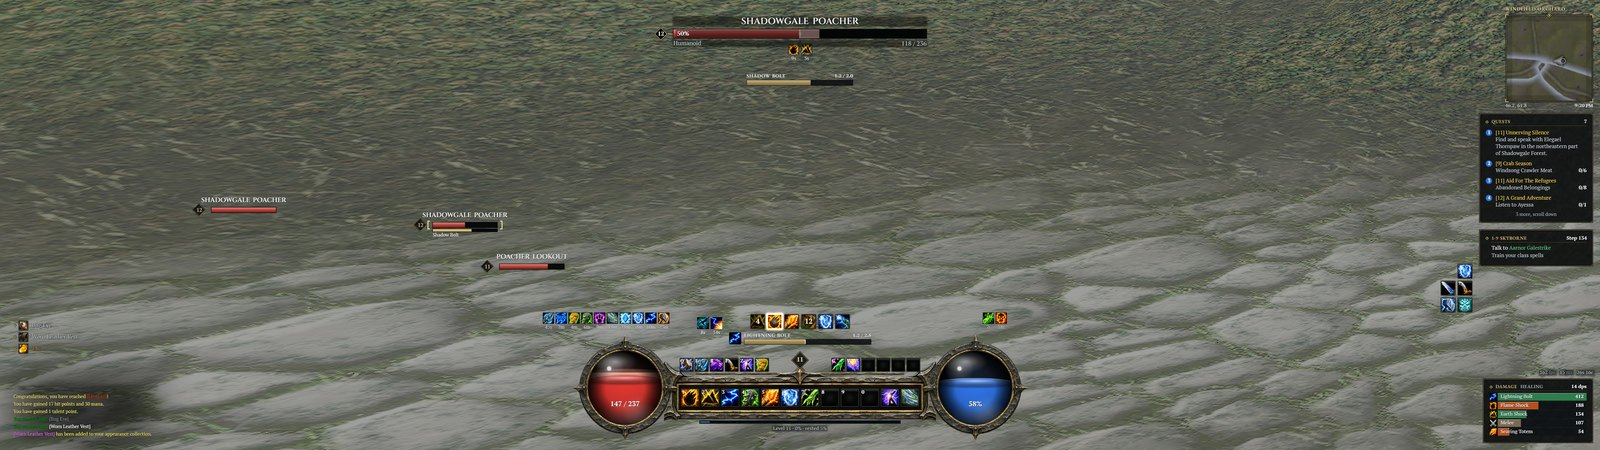
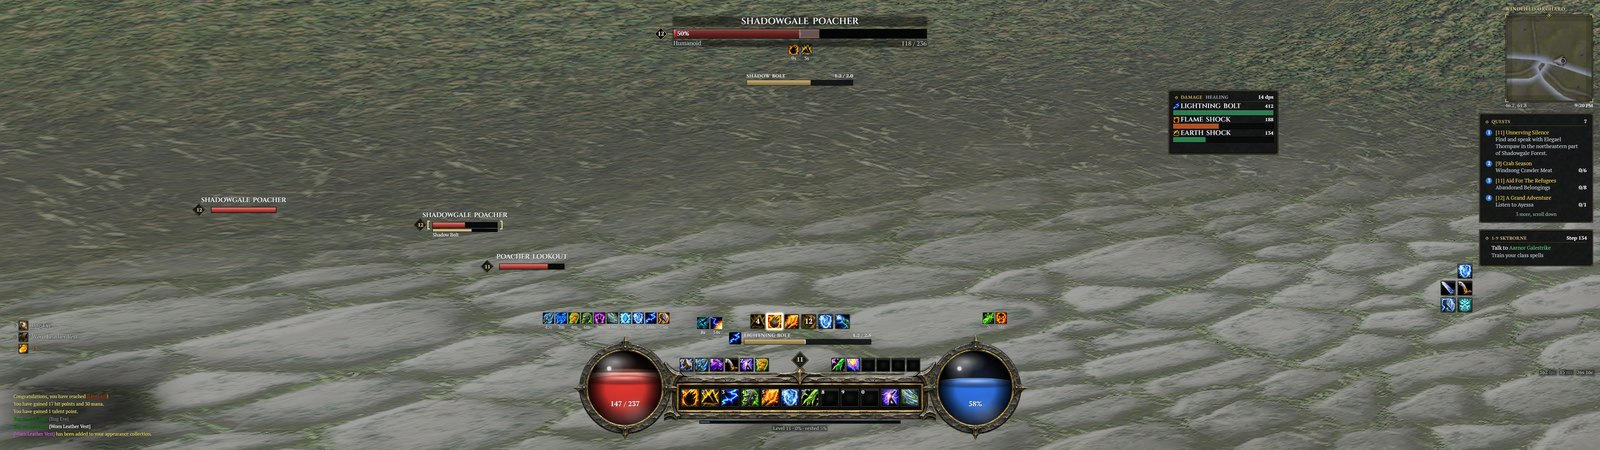
docs(meters): publish role choices and matching card renders

Changed region(s): [[0.9062, 0.84, 1.0, 0.9956], [0.7188, 0.1867, 0.8125, 0.3422]]

diff --git a/Tools/render/readme.py b/Tools/render/readme.py
@@ -65,6 +65,7 @@ for _arrangement in ("centred", "spread"):
     RENDERS["healer_" + _arrangement] = ("hud_reference", 1440 / 1080, dict(
         ULTRAWIDE, **dict(style_env("Frames"), RENDER_LAYOUT="Healer", RENDER_ARRANGEMENT=_arrangement)), "--strict")
 RENDERS["meter_party"] = ("hud_reference", 2.0, dict(HD, **dict(style_env("Frames"), RENDER_METER_GROUP="party")), "--strict")
+RENDERS["meter_both_2x"] = ("hud_reference", 2.0, dict(HD, **dict(style_env("Frames"), RENDER_METER_GROUP="party", RENDER_METER_CHOICE="both")), "--strict")
 RENDERS["plates"] = ("nameplate_bible", 2.0, {"RENDER_COMBAT": "1"}, "--strict")
 
 GALLERIES = ("gallery_setup", "gallery_groupframes", "gallery_skins_character")
@@ -79,8 +80,9 @@ IMAGES = [
     ("crop_orbs", "render:orbs_1080_2x", "2120x525+860+1615", 1000),
     ("crop_unitframes", "render:frames_1080_2x", "1480x560+1260+1290", 900),
     ("crop_nameplates", "render:plates", "1340x780+400+300", 800),
-    ("crop_meter", "render:meter_party", "540x300+3290+1820", 540),
-    ("crop_rail", "render:frames_1080_2x", "1100x1040+2720+20", 660),
+    ("crop_meter", "render:meter_party", "560x360+3010+840", 540),
+    ("crop_meters_both", "render:meter_both_2x", "1080x360+2490+840", 1120),
+    ("crop_rail", "render:frames_1080_2x", "1100x820+2720+20", 660),
     ("ultrawide_centred", "render:healer_centred", None, 1600),
     ("ultrawide_spread", "render:healer_spread", None, 1600),
     ("frame_setup", "frame:setup_layouts", None, 720),

diff --git a/Tools/media/marketing.py b/Tools/media/marketing.py
@@ -86,6 +86,7 @@ SHOWCASES = [
     ("show_frame_raid.jpg", "frame_raid.jpg"),
     ("show_crop_nameplates.jpg", "crop_nameplates.jpg"),
     ("show_crop_meter.jpg", "crop_meter.jpg"),
+    ("show_crop_meters_both.jpg", "crop_meters_both.jpg"),
     ("show_crop_rail.jpg", "crop_rail.jpg"),
     ("show_frame_skins.jpg", "frame_skins.jpg"),
 ]

diff --git a/docs/store/wago.md b/docs/store/wago.md
@@ -163,7 +163,7 @@ Tank adds a threat card in the combat cluster. Healer gives party and raid frame
 
 *KstyleUI test render over an in-game screenshot: the raid frames. Icons in this picture are the optional AI-made icon pack, not art shipped in the addon.*
 
-`/kstyle` opens one settings window with a page per module, a search across every setting and a live preview. `/kb` or `/kstyle kb` binds your action buttons: hover a button, press a key, then save. `/kstyle layout` moves, resizes or scales any element. Profiles copy between characters, and export and import as one string.
+`/kstyle` opens one settings window with a page per module, a search across every setting and a live preview. `/kb` or `/kstyle kb` binds your action buttons: hover a button, press a key, then save. `/kstyle layout` moves, resizes or scales any element. Keep a profile per specialization, switching automatically after combat. Profiles copy between characters, and export and import as one string.
 
 ![KstyleUI section: The rest of your UI - nameplates, meter, bags, tooltips and window skins](https://raw.githubusercontent.com/korallis/KstyleUI/main/docs/media/marketing/header-rest-of-your-ui.jpg)
 
@@ -181,7 +181,13 @@ Plain flat bars under tracked capital names, with your own debuffs on top. Your 
 
 *KstyleUI test render over an in-game screenshot: the damage meter in a party of five. Icons in this picture are the optional AI-made icon pack, not art shipped in the addon.*
 
-One card, a class-coloured bar per player. Switch between this fight, the last fight and the whole session; point at a row for that player's spell split. The threat card beside it follows the same design.
+The meter follows your role: threat when you tank, damage otherwise. As DPS you can show Damage, Threat or Both in **Options, Meters, Meter while dealing damage**; Both places matching cards side by side, and Damage stays the default.
+
+![KstyleUI test render over an in-game screenshot of the Both meter choice: separate, equally wide threat and damage cards side by side](https://raw.githubusercontent.com/korallis/KstyleUI/main/docs/media/marketing/show_crop_meters_both.jpg)
+
+*KstyleUI test render over an in-game screenshot: Both shows threat next to damage. Icons in this picture are the optional AI-made icon pack, not art shipped in the addon.*
+
+One class-coloured bar per player. Switch between this fight, the last fight and the whole session; point at a damage row for that player's spell split.
 
 ### Quests, guide and map on the right
 
@@ -292,8 +298,8 @@ Upload in this order. The gallery description is the caption.
 | `gallery/05-ultrawide-spread.jpg` | 1600×450 | Ultrawide, Spread | KstyleUI test render over an in-game screenshot of the Healer layout on a 5120 by 1440 screen, in the Spread arrangement. The side columns sit at the edges. Icons in this picture are the optional AI-made icon pack, not art shipped in the addon. |
 | `gallery/06-setup.jpg` | 720×523 | First-run setup | KstyleUI test render over an in-game screenshot of the first-run setup on its layout step: DPS, Tank and Healer, with a preview under the pointer. |
 | `gallery/07-nameplates.jpg` | 800×466 | Nameplates | KstyleUI test render over an in-game screenshot of the nameplates in combat: a targeted beast, an elite, a rare, a world boss and a friendly player. Icons in this picture are the optional AI-made icon pack, not art shipped in the addon. |
-| `gallery/08-meter.jpg` | 540×300 | Damage meter | KstyleUI test render over an in-game screenshot of the damage meter in a party of five, one class-coloured bar per player. Icons in this picture are the optional AI-made icon pack, not art shipped in the addon. |
-| `gallery/09-quests.jpg` | 660×624 | Map, quests and guide | KstyleUI test render over an in-game screenshot of the right rail: the map card, the quest card and the guide card. Icons in this picture are the optional AI-made icon pack, not art shipped in the addon. |
+| `gallery/08-meter.jpg` | 540×347 | Damage meter | KstyleUI test render over an in-game screenshot of the damage meter in a party of five, one class-coloured bar per player. Icons in this picture are the optional AI-made icon pack, not art shipped in the addon. |
+| `gallery/09-quests.jpg` | 660×492 | Map, quests and guide | KstyleUI test render over an in-game screenshot of the right rail: the map card, the quest card and the guide card. Icons in this picture are the optional AI-made icon pack, not art shipped in the addon. |
 | `gallery/10-medallion-closeup.gif` | 800×166 | Target medallion | In-game screenshot: selecting a target brings in the target medallion, and its red ring pulses at low health. Icons in this picture are the optional AI-made icon pack, not art shipped in the addon. |
 
 The upload page for a project, once it exists, is `https://addons.wago.io/developers/projects/<slug>/gallery/create`.

diff --git a/docs/store/curseforge.md b/docs/store/curseforge.md
@@ -176,7 +176,7 @@ Tank adds a threat card in the combat cluster. Healer gives party and raid frame
 
 *KstyleUI test render over an in-game screenshot: the raid frames. Icons in this picture are the optional AI-made icon pack, not art shipped in the addon.*
 
-`/kstyle` opens one settings window with a page per module, a search across every setting and a live preview. `/kb` or `/kstyle kb` binds your action buttons: hover a button, press a key, then save. `/kstyle layout` moves, resizes or scales any element. Profiles copy between characters, and export and import as one string.
+`/kstyle` opens one settings window with a page per module, a search across every setting and a live preview. `/kb` or `/kstyle kb` binds your action buttons: hover a button, press a key, then save. `/kstyle layout` moves, resizes or scales any element. Keep a profile per specialization, switching automatically after combat. Profiles copy between characters, and export and import as one string.
 
 ![KstyleUI section: The rest of your UI - nameplates, meter, bags, tooltips and window skins](https://raw.githubusercontent.com/korallis/KstyleUI/main/docs/media/marketing/header-rest-of-your-ui.jpg)
 
@@ -194,7 +194,13 @@ Plain flat bars under tracked capital names, with your own debuffs on top. Your 
 
 *KstyleUI test render over an in-game screenshot: the damage meter in a party of five. Icons in this picture are the optional AI-made icon pack, not art shipped in the addon.*
 
-One card, a class-coloured bar per player. Switch between this fight, the last fight and the whole session; point at a row for that player's spell split. The threat card beside it follows the same design.
+The meter follows your role: threat when you tank, damage otherwise. As DPS you can show Damage, Threat or Both in **Options, Meters, Meter while dealing damage**; Both places matching cards side by side, and Damage stays the default.
+
+![KstyleUI test render over an in-game screenshot of the Both meter choice: separate, equally wide threat and damage cards side by side](https://raw.githubusercontent.com/korallis/KstyleUI/main/docs/media/marketing/show_crop_meters_both.jpg)
+
+*KstyleUI test render over an in-game screenshot: Both shows threat next to damage. Icons in this picture are the optional AI-made icon pack, not art shipped in the addon.*
+
+One class-coloured bar per player. Switch between this fight, the last fight and the whole session; point at a damage row for that player's spell split.
 
 ### Quests, guide and map on the right
 
@@ -298,6 +304,6 @@ Upload in this order. Title, then caption.
 | `gallery/05-ultrawide-spread.jpg` | 1600×450 | Ultrawide, Spread | KstyleUI test render over an in-game screenshot of the Healer layout on a 5120 by 1440 screen, in the Spread arrangement. The side columns sit at the edges. Icons in this picture are the optional AI-made icon pack, not art shipped in the addon. |
 | `gallery/06-setup.jpg` | 720×523 | First-run setup | KstyleUI test render over an in-game screenshot of the first-run setup on its layout step: DPS, Tank and Healer, with a preview under the pointer. |
 | `gallery/07-nameplates.jpg` | 800×466 | Nameplates | KstyleUI test render over an in-game screenshot of the nameplates in combat: a targeted beast, an elite, a rare, a world boss and a friendly player. Icons in this picture are the optional AI-made icon pack, not art shipped in the addon. |
-| `gallery/08-meter.jpg` | 540×300 | Damage meter | KstyleUI test render over an in-game screenshot of the damage meter in a party of five, one class-coloured bar per player. Icons in this picture are the optional AI-made icon pack, not art shipped in the addon. |
-| `gallery/09-quests.jpg` | 660×624 | Map, quests and guide | KstyleUI test render over an in-game screenshot of the right rail: the map card, the quest card and the guide card. Icons in this picture are the optional AI-made icon pack, not art shipped in the addon. |
+| `gallery/08-meter.jpg` | 540×347 | Damage meter | KstyleUI test render over an in-game screenshot of the damage meter in a party of five, one class-coloured bar per player. Icons in this picture are the optional AI-made icon pack, not art shipped in the addon. |
+| `gallery/09-quests.jpg` | 660×492 | Map, quests and guide | KstyleUI test render over an in-game screenshot of the right rail: the map card, the quest card and the guide card. Icons in this picture are the optional AI-made icon pack, not art shipped in the addon. |
 | `gallery/10-medallion-closeup.gif` | 800×166 | Target medallion | In-game screenshot: selecting a target brings in the target medallion, and its red ring pulses at low health. Icons in this picture are the optional AI-made icon pack, not art shipped in the addon. |

diff --git a/Tools/render/README.md b/Tools/render/README.md
@@ -8,7 +8,7 @@ Screen units: the screen is 1080 units tall, x grows right and y grows down from
 
 `hud_reference` honors `RENDER_SCREEN=WIDTHxHEIGHT` and `RENDER_LAYOUT=DPS|Tank|Healer`. `RENDER_METER_SECRET=1` draws the damage card in combat, where the game hands every amount over as a secret value (the render reveals them as the engine does). `RENDER_COOLDOWN_FALLBACK=1` draws the Cooldowns fallback: every group restyles Blizzard's own viewer, four utility cooldowns stand in for the picture's empty utility row, and the essential and utility viewers stand at Apply's Edit Mode anchors, or in Blizzard's managed bottom stack when Apply left them in their default places (`Hud.NativeViewers`).
 `RENDER_ARRANGEMENT=centred|spread` sets the saved ultrawide arrangement in every module's environment, so on a 32:9 `RENDER_SCREEN` the HUD draws in the 21:9 column or across the screen; with `RENDER_SIZE=auto` and `--ppu` at the screen's height over 1080 the picture is the screen's own pixels (KSTY-59 renders the five ultrawide and 16:9 screens this way).
-`RENDER_METER_CHOICE=damage|threat|both` selects the DPS role's meter choice in `hud_reference`; add `RENDER_METER_GROUP=party` for group rows. `hud_dps_threat` shows Both in a party, in combat, and accepts every `RENDER_LAYOUT` and `RENDER_HUD_STYLE`. `readme.py` retakes its `crop_meters_both` close-up alongside the existing meter crop.
+`RENDER_METER_CHOICE=damage|threat|both` selects the DPS role's meter choice in `hud_reference`; add `RENDER_METER_GROUP=party` for group rows. `hud_dps_threat` shows Both in a party, in combat, and accepts every `RENDER_LAYOUT` and `RENDER_HUD_STYLE`. `readme.py` retakes its `crop_meters_both` close-up alongside the existing meter crop. Both uses one shared row: names and number-role figures above a Flat 12-unit bar, with the same tokens as the nameplates.
 `RENDER_SIZE=auto` uses the addon's `Setup.Layouts.ScaleLimit` and `Scale.Auto`, including its final discrete fit check. A HUD composite renders modules in separate environments, so its fit checks use the complete selected preset's enabled elements to keep the same scale across the composite. Standalone galleries retain the game's fit against their own enabled modules. For Medallions DPS under Centred, this gives 0.81580125 at 3456x2234 and 0.9375 at both 5120x1440 and 1920x1080. A numeric `RENDER_SIZE` keeps the existing explicit-size behaviour; unset, the harness uses 16/19.
 `RENDER_HUD_STYLE=Frames|Orbs|Medallions` is the saved HUD style of every profile a scene loads that names none, so a gallery or a skin scene draws in that style as well as the `hud` scenes; `Common.ForceScreen` writes it before the addon loads.
 `gallery_unitframes` explicitly selects Frames because its fixtures, assertions and crop names describe that style's vitals line, sigil and cards. `gallery_options` follows the selected HUD style for its live previews. Gallery fixtures hide aura buttons that the fake engine allocated without placing; the target's explicitly populated aura buttons remain visible.

diff --git a/README.md b/README.md
@@ -146,7 +146,7 @@ Tank adds a threat card in the combat cluster. Healer gives party and raid frame
 
 *KstyleUI test render over an in-game screenshot: the raid frames. Icons in this picture are the optional AI-made icon pack, not art shipped in the addon.*
 
-`/kstyle` opens one settings window with a page per module, a search across every setting and a live preview. `/kb` or `/kstyle kb` binds your action buttons: hover a button, press a key, then save. `/kstyle layout` moves, resizes or scales any element. Profiles copy between characters, and export and import as one string.
+`/kstyle` opens one settings window with a page per module, a search across every setting and a live preview. `/kb` or `/kstyle kb` binds your action buttons: hover a button, press a key, then save. `/kstyle layout` moves, resizes or scales any element. Keep a profile per specialization, switching automatically after combat. Profiles copy between characters, and export and import as one string.
 
 ![KstyleUI section: The rest of your UI - nameplates, meter, bags, tooltips and window skins](https://raw.githubusercontent.com/korallis/KstyleUI/main/docs/media/marketing/header-rest-of-your-ui.jpg)
 
@@ -164,7 +164,13 @@ Plain flat bars under tracked capital names, with your own debuffs on top. Your 
 
 *KstyleUI test render over an in-game screenshot: the damage meter in a party of five. Icons in this picture are the optional AI-made icon pack, not art shipped in the addon.*
 
-One card, a class-coloured bar per player. Switch between this fight, the last fight and the whole session; point at a row for that player's spell split. The threat card beside it follows the same design.
+The meter follows your role: threat when you tank, damage otherwise. As DPS you can show Damage, Threat or Both in **Options, Meters, Meter while dealing damage**; Both places matching cards side by side, and Damage stays the default.
+
+![KstyleUI test render over an in-game screenshot of the Both meter choice: separate, equally wide threat and damage cards side by side](https://raw.githubusercontent.com/korallis/KstyleUI/main/docs/media/marketing/show_crop_meters_both.jpg)
+
+*KstyleUI test render over an in-game screenshot: Both shows threat next to damage. Icons in this picture are the optional AI-made icon pack, not art shipped in the addon.*
+
+One class-coloured bar per player. Switch between this fight, the last fight and the whole session; point at a damage row for that player's spell split.
 
 ### Quests, guide and map on the right
 

diff --git a/docs/store/description.md b/docs/store/description.md
@@ -140,7 +140,7 @@ Tank adds a threat card in the combat cluster. Healer gives party and raid frame
 
 *KstyleUI test render over an in-game screenshot: the raid frames. Icons in this picture are the optional AI-made icon pack, not art shipped in the addon.*
 
-`/kstyle` opens one settings window with a page per module, a search across every setting and a live preview. `/kb` or `/kstyle kb` binds your action buttons: hover a button, press a key, then save. `/kstyle layout` moves, resizes or scales any element. Profiles copy between characters, and export and import as one string.
+`/kstyle` opens one settings window with a page per module, a search across every setting and a live preview. `/kb` or `/kstyle kb` binds your action buttons: hover a button, press a key, then save. `/kstyle layout` moves, resizes or scales any element. Keep a profile per specialization, switching automatically after combat. Profiles copy between characters, and export and import as one string.
 
 ![KstyleUI section: The rest of your UI - nameplates, meter, bags, tooltips and window skins](https://raw.githubusercontent.com/korallis/KstyleUI/main/docs/media/marketing/header-rest-of-your-ui.jpg)
 
@@ -158,7 +158,13 @@ Plain flat bars under tracked capital names, with your own debuffs on top. Your 
 
 *KstyleUI test render over an in-game screenshot: the damage meter in a party of five. Icons in this picture are the optional AI-made icon pack, not art shipped in the addon.*
 
-One card, a class-coloured bar per player. Switch between this fight, the last fight and the whole session; point at a row for that player's spell split. The threat card beside it follows the same design.
+The meter follows your role: threat when you tank, damage otherwise. As DPS you can show Damage, Threat or Both in **Options, Meters, Meter while dealing damage**; Both places matching cards side by side, and Damage stays the default.
+
+![KstyleUI test render over an in-game screenshot of the Both meter choice: separate, equally wide threat and damage cards side by side](https://raw.githubusercontent.com/korallis/KstyleUI/main/docs/media/marketing/show_crop_meters_both.jpg)
+
+*KstyleUI test render over an in-game screenshot: Both shows threat next to damage. Icons in this picture are the optional AI-made icon pack, not art shipped in the addon.*
+
+One class-coloured bar per player. Switch between this fight, the last fight and the whole session; point at a damage row for that player's spell split.
 
 ### Quests, guide and map on the right
 
